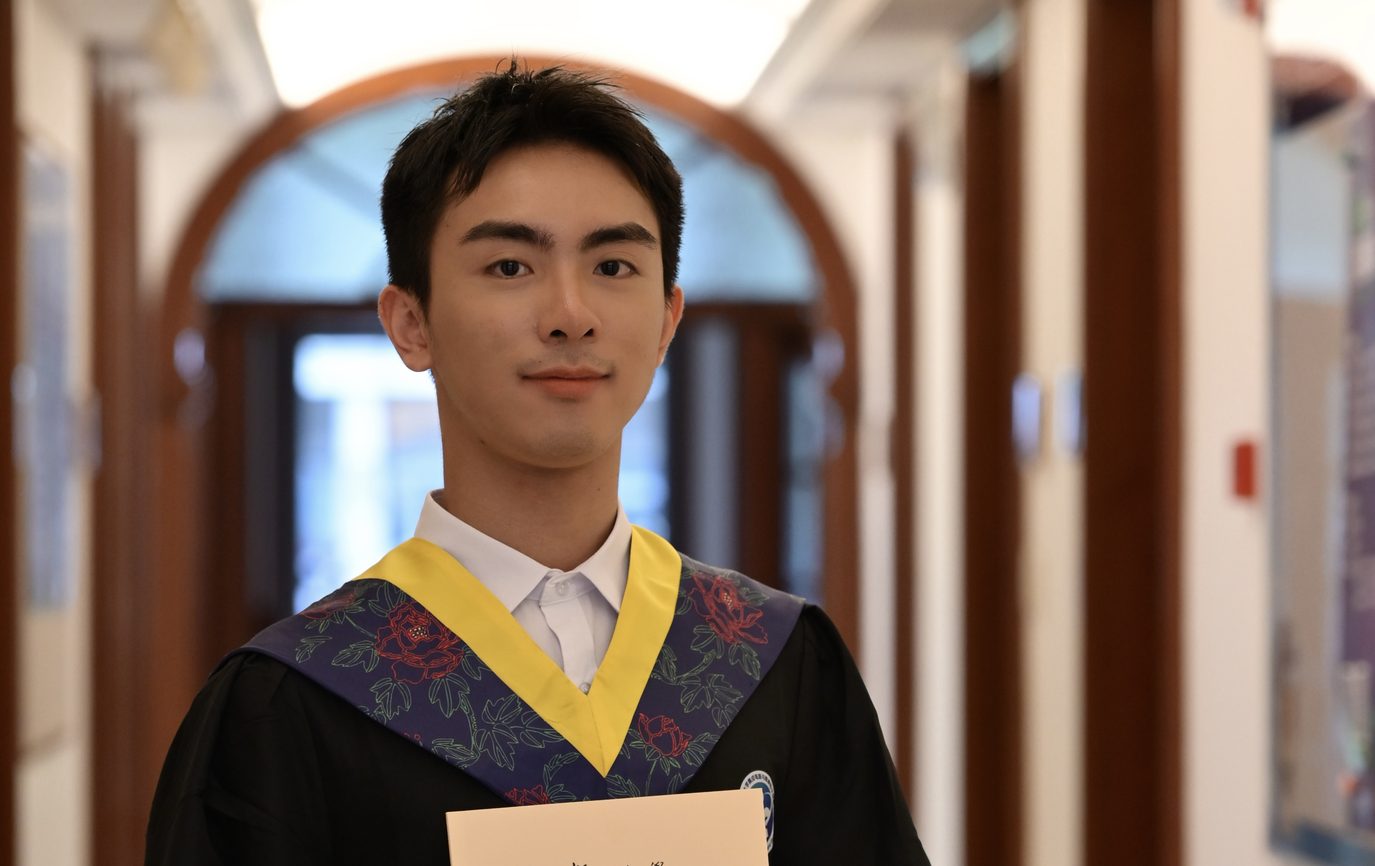
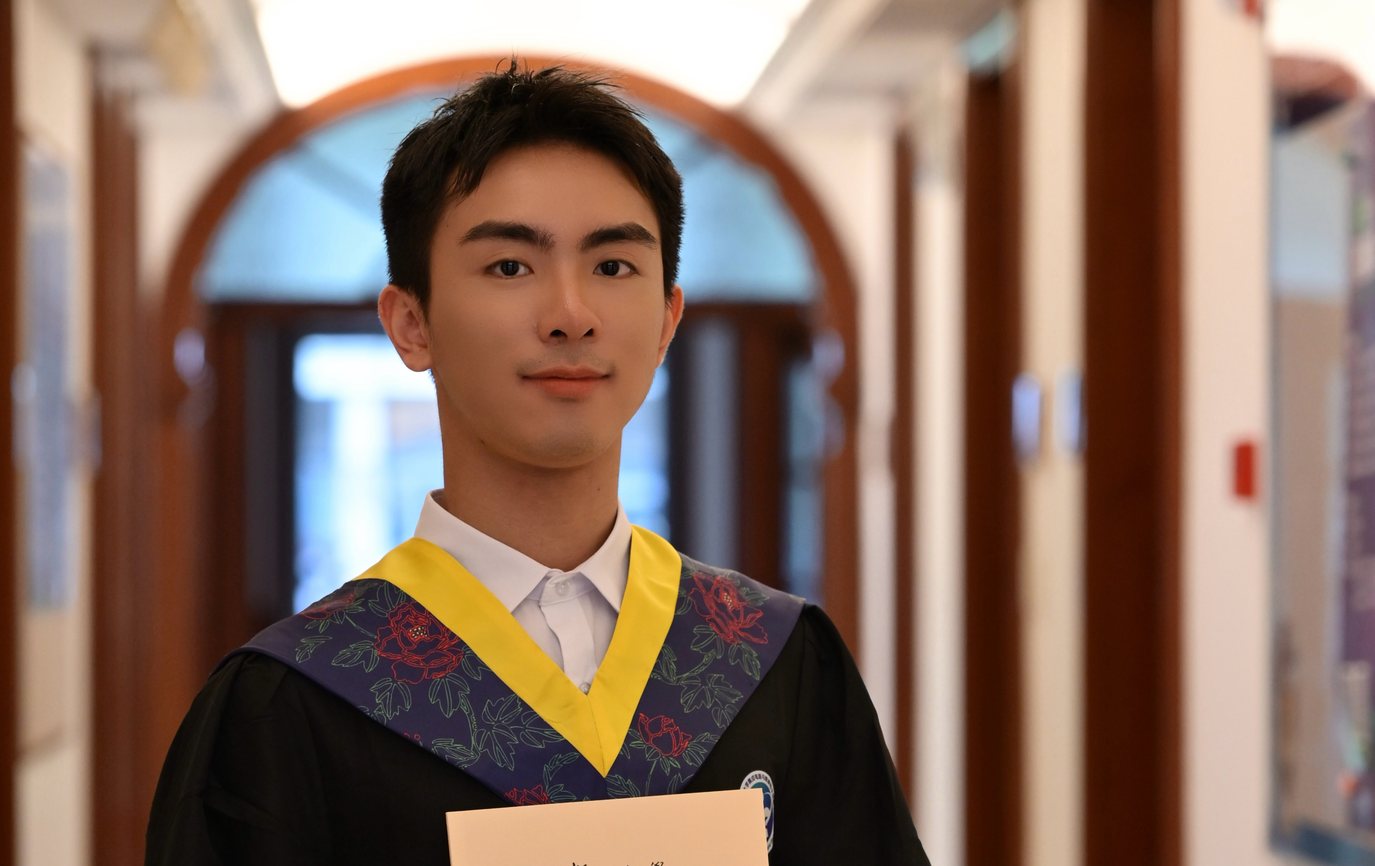
Update published website

Changed region(s): [[0.248, 0.6203, 0.496, 0.8995]]

diff --git a/site/index.html b/site/index.html
@@ -9,22 +9,14 @@
     <link rel="preconnect" href="https://fonts.gstatic.com" crossorigin>
     <link rel="stylesheet" href="https://cdnjs.cloudflare.com/ajax/libs/font-awesome/6.4.0/css/all.min.css">
     <link rel="stylesheet" href="assets/tailwind.css?v=20261011-bilingual-brand">
-    <link rel="stylesheet" href="styles.css?v=20261011-signature-navy">
+    <link rel="stylesheet" href="styles.css?v=20261011-swapped-name">
 </head>
 <body class="bg-background text-foreground antialiased font-sans" data-brand-font="dancing">
     <nav class="top-nav glass fixed top-0 left-0 right-0 z-50 transition-all duration-300">
         <div class="nav-container max-w-[1480px] mx-auto px-4 sm:px-6 lg:px-8">
             <div class="flex justify-between items-center h-16 xl:h-20">
                 <div class="flex-shrink-0">
-                    <a href="#" class="signature-brand is-lockup-pending" aria-label="Xinhua Chen, back to top">
-                        <span class="signature-brand-name" aria-hidden="true">Xinhua Chen</span>
-                        <canvas class="signature-brand-name-canvas" aria-hidden="true"></canvas>
-                        <span class="signature-brand-ink" aria-hidden="true">
-                            <img src="assets/signature/signature.svg?v=20261011-signature-navy" alt="" width="800" height="380">
-                            <canvas></canvas>
-                        </span>
-                        <canvas class="signature-brand-lockup-canvas" aria-hidden="true"></canvas>
-                    </a>
+                    <a href="#" class="swap-nav-name" aria-label="Xinhua Chen, back to top">Xinhua Chen <span class="profile-name-divider">|</span> <span lang="zh">陈欣骅</span></a>
                 </div>
 
                 <div class="hidden xl:block">
@@ -95,11 +87,21 @@
                 <div class="profile-column">
                     <div class="profile-card">
                         <div class="profile-image-container mb-6 mx-auto max-w-[180px]">
-                            <img src="assets/profile.jpeg" alt="Xinhua Chen in graduation attire" class="profile-portrait w-full rounded-xl shadow-sm" width="220" height="260">
+                            <img src="assets/profile.jpeg?v=20261011-new-portrait" alt="Xinhua Chen in graduation attire" class="profile-portrait w-full rounded-xl shadow-sm" width="220" height="260">
                         </div>
 
                         <div class="text-center mb-6">
-                            <h1 class="text-2xl font-sans font-semibold text-primary mb-2">Xinhua Chen <span class="profile-name-divider">|</span> <span lang="zh">陈欣骅</span></h1>
+                            <h1 class="swap-profile-name" aria-label="Xinhua Chen | 陈欣骅">
+                                <a href="#" class="signature-brand is-lockup-pending" aria-label="Xinhua Chen, back to top">
+                                    <span class="signature-brand-name" aria-hidden="true">Xinhua Chen</span>
+                                    <canvas class="signature-brand-name-canvas" aria-hidden="true"></canvas>
+                                    <span class="signature-brand-ink" aria-hidden="true">
+                                        <img src="assets/signature/signature.svg?v=20261011-signature-navy" alt="" width="800" height="380">
+                                        <canvas></canvas>
+                                    </span>
+                                    <canvas class="signature-brand-lockup-canvas" aria-hidden="true"></canvas>
+                                </a>
+                            </h1>
                             <p class="text-lg text-accent font-medium mb-1">Ph.D. Student</p>
                             <p class="text-neutral-600 mb-2">IIIS, Tsinghua University</p>
                             <p class="profile-slogan">Build systems, share knowledge, pave the way.</p>

diff --git a/site/styles.css b/site/styles.css
@@ -188,6 +188,25 @@ body[data-brand-font="pacifico"] .signature-brand-name { font-family: 'Pacifico'
 }
 
 .profile-name-divider { color: #94a3b8; font-weight: 400; }
+.swap-nav-name {
+    display: inline-flex;
+    align-items: baseline;
+    gap: .32em;
+    color: #1e293b;
+    font-size: 1.5rem;
+    font-weight: 600;
+    letter-spacing: -.025em;
+    line-height: 1;
+    white-space: nowrap;
+    text-decoration: none;
+}
+.swap-nav-name .profile-name-divider { font-weight: 400; }
+.profile-card .profile-image-container { margin-bottom: .5rem; }
+.swap-profile-name { display: flex; justify-content: center; align-items: center; min-height: 70px; margin: 0; }
+.swap-profile-name .signature-brand { height: 70px; transform-origin: center; }
+.swap-profile-name .signature-brand:not(.is-animated) .signature-brand-name { visibility: visible; }
+.swap-profile-name .signature-brand:not(.is-animated) .signature-brand-ink img { opacity: 1; }
+.profile-card .profile-portrait { object-position: 44% center; }
 .profile-card { container-type: inline-size; min-width: 0; }
 .profile-slogan { margin: 1rem auto 0; color: #20757c; font-size: clamp(.75rem, 4.17cqi, .9375rem); line-height: 1.65; font-weight: 500; letter-spacing: -.015em; white-space: nowrap; }
 .research-direction-tags {
@@ -286,6 +305,14 @@ section {
     #honors { order: 7; }
     #outreach { order: 8; margin-top: 0; }
     #contact { order: 9; }
+}
+
+@media (max-width: 639px) {
+    .swap-nav-name { font-size: clamp(1rem, 5vw, 1.25rem); }
+}
+
+@media (max-width: 375px) {
+    .swap-profile-name .signature-brand { transform: scale(.84); }
 }
 
 @media (min-width: 1024px) {
